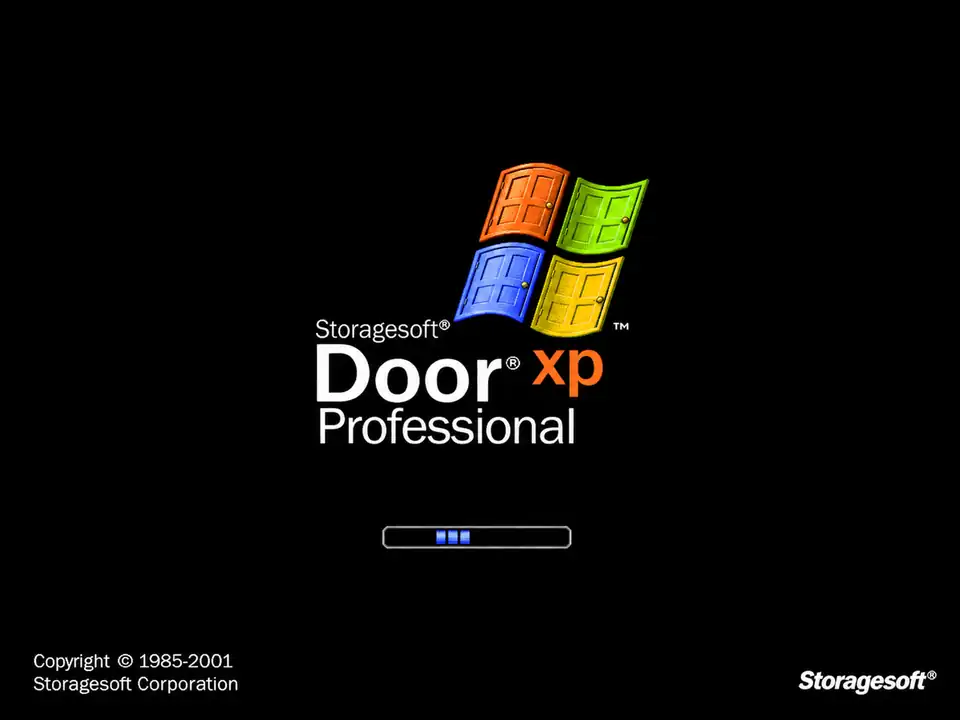
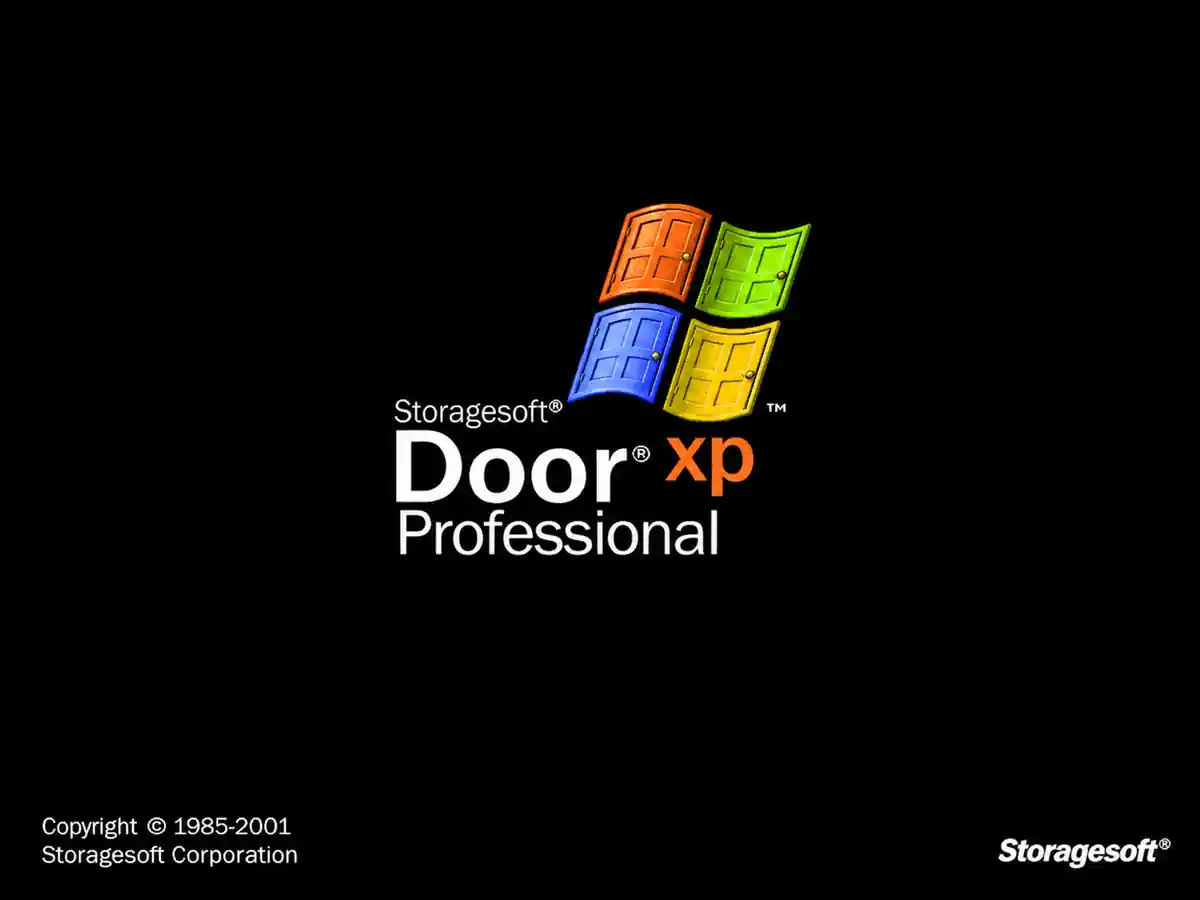
Update Door XP boot artwork and expand floating random tablet ads (v0.4.9)

diff --git a/tablet-os.js b/tablet-os.js
@@ -12,12 +12,34 @@
     shutdown:'Завершение работы...',biosTitle:'NET SYSTEM BIOS v3.0',biosText:'Проверка памяти... OK\nОбнаружение устройств... OK\nЗагрузка Door XP...',
     welcome:'Добро пожаловать',booting:'Загрузка системы…',startVideo:'Запуск Net Video 3.0…',
     ads:[
-      ['ПОЗДРАВЛЯЕМ!','Ваш компьютер выбран для бесплатного обновления охранной системы. Установить сейчас?'],
-      ['СРОЧНАЯ РЕКЛАМА','Подписка «Анти-Петух PRO» обещает защиту от внезапных криков. Активировать?'],
-      ['ИНТЕРНЕТ-ПРОВАЙДЕР','Ускорьте все девять камер в 100 раз! Применить экспериментальную оптимизацию?'],
-      ['ПРОВЕРКА СИСТЕМЫ','Найдено 47 подозрительных перьев. Запустить автоматическую очистку?'],
-      ['СПЕЦИАЛЬНОЕ ПРЕДЛОЖЕНИЕ','Зерно премиум-класса теперь доступно онлайн. Получить подарок?'],
-      ['ОБНОВЛЕНИЕ СЛУЖБЫ','Установлена устаревшая версия Net Video. Перейти на новую прямо сейчас?']
+      ["ВЫ ВЫИГРАЛИ!","Вы стали 47-м посетителем сайта! Получить бесплатный кулер для охранника?"],
+      ["АНТИ-ПЕТУХ PRO","Новая защита от внезапных криков и перьев. Активировать пробную версию?"],
+      ["СВЕРХСКОРОСТЬ","Ускорьте все девять камер в сто раз! Разрешить экспериментальную оптимизацию?"],
+      ["ПРОВЕРКА СИСТЕМЫ","Обнаружено 47 подозрительных перьев. Удалить их автоматически?"],
+      ["ПОДАРОК ДНЯ","Вам положен мешок элитного зерна. Подтвердить получение?"],
+      ["ВАЖНОЕ ОБНОВЛЕНИЕ","Ваша версия Net Video устарела на 29 лет. Установить обновление?"],
+      ["НОЧНОЙ БОНУС","Хотите получать двойную зарплату, не выходя из кресла? Подписаться?"],
+      ["ОЧИСТКА ПАМЯТИ","Видеопамять переполнена кадрами куриц. Начать мгновенную очистку?"],
+      ["АКЦИЯ: КОФЕ","Один бесплатный кофе за каждые шесть часов наблюдения. Забрать сейчас?"],
+      ["СРОЧНОЕ СООБЩЕНИЕ","На вашем компьютере обнаружено критическое отсутствие печенья. Исправить?"],
+      ["НАЙДЕН ВИРУС","Угроза Chicken.exe просит доступ к вашим камерам. Разрешить?"],
+      ["ПОГОДА В ОФИСЕ","С вероятностью 99% сегодня ожидается дождь из перьев. Включить прогноз?"],
+      ["NET SYSTEM PLUS","Дополнительная камера для наблюдения за самим охранником. Подключить?"],
+      ["БЕЗОПАСНАЯ НОЧЬ","Автоматический помощник обещает закрывать двери за вас. Установить?"],
+      ["СЧАСТЛИВЫЙ НОМЕР","Ваш монитор выбран для участия в лотерее «Золотой гребень». Принять участие?"],
+      ["СИСТЕМНЫЙ СОВЕТ","Рекомендуем отключить лишние фонарики для экономии энергии. Применить?"],
+      ["ОФИСНЫЕ НОВОСТИ","Всем сотрудникам разрешено смотреть камеры с закрытыми глазами. Подробнее?"],
+      ["РАСШИРЕНИЕ БРАУЗЕРА","Переводчик языка петухов доступен бесплатно. Установить расширение?"],
+      ["ПРЕМИУМ-ПОДПИСКА","Уберите рекламу навсегда всего за 250 долларов в неделю. Оформить?"],
+      ["ЦИФРОВАЯ УБОРКА","В папке «Корзина» найдены 128 виртуальных скорлупок. Очистить?"],
+      ["СЕКРЕТНОЕ ПРЕДЛОЖЕНИЕ","Защитите офис при помощи инновационной шапочки из фольги. Заказать?"],
+      ["ЗАПРОС ДОСТУПА","Приложение Rooster Assistant хочет управлять вашим USB-хабом. Разрешить?"],
+      ["ОБНАРУЖЕН ПРИНТЕР","Ваш принтер печатает загадочные следы лап. Запустить диагностику?"],
+      ["НЕТ СОЕДИНЕНИЯ?","Наш мастер восстановит интернет за три хлопка крыльями. Вызвать мастера?"],
+      ["ПОДТВЕРДИТЕ ВОЗРАСТ","Для просмотра опасных куриных мемов подтвердите, что вам уже 18 лет."],
+      ["ОФИСНЫЙ РАДАР","Выявлено необычное движение в коридоре. Запустить платный анализ?"],
+      ["ПЕРСОНАЛЬНАЯ СКИДКА","Только сегодня: 90% на годовой запас батареек. Получить купон?"],
+      ["РОЗЫГРЫШ СРЕДИ ОХРАННИКОВ","Приз — выходной после седьмой смены. Подать заявку?"]
     ]
   };
   const ja={
@@ -26,12 +48,34 @@
     shutdown:'シャットダウンしています…',biosTitle:'NET SYSTEM BIOS v3.0',biosText:'メモリのチェック... OK\nデバイスの確認... OK\nDoor XP を起動中...',
     welcome:'ようこそ',booting:'システムを起動中…',startVideo:'Net Video 3.0 を起動中…',
     ads:[
-      ['おめでとうございます！','セキュリティシステムの無料アップグレードに当選しました。インストールしますか？'],
-      ['特別なお知らせ','突然のニワトリの叫び声から守る「Anti-Rooster PRO」を有効にしますか？'],
-      ['インターネット接続','9台の監視カメラを100倍高速化！実験的な最適化を適用しますか？'],
-      ['システム警告','47枚の不審な羽を発見しました。自動クリーニングしますか？'],
-      ['今だけ限定','プレミアム飼料の特典を受け取りますか？'],
-      ['更新の確認','Net Video は旧バージョンです。今すぐアップデートしますか？']
+      ["当選のお知らせ","あなたは本日47番目の訪問者です！警備員用の冷水機を無料で受け取りますか？"],
+      ["ANTI-ROOSTER PRO","突然の鳴き声や羽から守る最新サービス。お試し版を有効にしますか？"],
+      ["超高速モード","9台の監視カメラを100倍高速化！実験的な最適化を許可しますか？"],
+      ["システム検査","不審な羽を47枚検出しました。自動的に削除しますか？"],
+      ["本日のプレゼント","高級飼料を一袋プレゼント！今すぐ受け取りますか？"],
+      ["重要な更新","Net Videoは29年間更新されていません。今すぐ更新しますか？"],
+      ["夜勤ボーナス","椅子に座ったまま給料が2倍になるサービスに登録しますか？"],
+      ["メモリの最適化","監視映像のニワトリでメモリがいっぱいです。今すぐ整理しますか？"],
+      ["コーヒー特典","監視6時間につきコーヒー1杯無料！今すぐ受け取りますか？"],
+      ["緊急通知","コンピューターにクッキーが足りません。問題を修復しますか？"],
+      ["ウイルスを検出","Chicken.exeがカメラへのアクセスを要求しています。許可しますか？"],
+      ["オフィスの天気","今夜は99％の確率で羽が降る見込みです。予報を表示しますか？"],
+      ["NET SYSTEM PLUS","警備員自身を監視する追加カメラを接続しますか？"],
+      ["安全な夜","AIが自動的にドアを閉めます。今すぐインストールしますか？"],
+      ["ラッキーナンバー","「黄金のトサカ」抽選会への参加権を獲得しました。応募しますか？"],
+      ["システムのおすすめ","節電のために余分なライトを消しますか？"],
+      ["オフィスニュース","全社員が目を閉じたままカメラを見られるようになりました。詳細を見る？"],
+      ["ブラウザー拡張機能","ニワトリ語の翻訳ツールが無料で使えます。インストールしますか？"],
+      ["プレミアム会員","広告を永久に非表示！週250ドルで申し込みますか？"],
+      ["デジタル清掃","ごみ箱から仮想の卵殻を128個検出しました。削除しますか？"],
+      ["極秘セール","アルミホイル製の帽子でオフィスを守りましょう。注文しますか？"],
+      ["アクセス許可","Rooster AssistantがUSBハブの操作を要求しています。許可しますか？"],
+      ["プリンターを検出","プリンターが謎の足跡を印刷しています。診断しますか？"],
+      ["接続できませんか？","羽ばたき3回でインターネットを修復！技術者を呼びますか？"],
+      ["年齢確認","危険なニワトリのミームを見るには18歳以上であることを確認してください。"],
+      ["オフィスレーダー","廊下で不審な動きを検知しました。有料解析を開始しますか？"],
+      ["あなただけの割引","本日限定！一年分の電池が90％オフ。クーポンを受け取りますか？"],
+      ["警備員限定の抽選","景品は7日目の勤務後の休日です。応募しますか？"]
     ]
   };
   const safeRead=key=>{try{return localStorage.getItem(key)}catch(_){return null}};
@@ -45,7 +89,7 @@
     const factor=Math.max(.7,1-Math.max(0,game.currentNight-4)*.085);
     return random(10,18)*factor+extra;
   }
-  const media=name=>`assets/ui/tablet/${name}.webp`;
+  const media=name=>`assets/ui/tablet/${name}.webp${name==='boot'?'?v=049':''}`;
   const html=(tag,cls,where)=>{const e=document.createElement(tag);e.className=cls;where.appendChild(e);return e;};
   const os=html('div','tablet-os-layer hidden',tablet);
   os.setAttribute('aria-live','polite');
@@ -57,6 +101,29 @@
   ad.setAttribute('role','dialog');ad.setAttribute('aria-modal','true');
   ad.innerHTML=`<div class="tablet-popup-dialog"><div class="tablet-popup-head"><span>●</span><strong></strong><span class="tablet-popup-close" aria-hidden="true">×</span></div><div class="tablet-popup-message"><span class="tablet-popup-symbol">i</span><div><h3></h3><p></p></div></div><div class="tablet-popup-buttons"></div></div>`;
   const popupHeading=ad.querySelector('.tablet-popup-head strong'), popupTitle=ad.querySelector('h3'), popupText=ad.querySelector('p'), buttons=ad.querySelector('.tablet-popup-buttons');
+  const popupDialog=ad.querySelector('.tablet-popup-dialog');
+  let lastAdIndex=-1;
+  let adMoving=false;
+  function placeAdWindow(){
+    if(!state.adVisible || !game.cameraOpen || ad.classList.contains('hidden'))return;
+    const containerWidth=ad.clientWidth,containerHeight=ad.clientHeight;
+    if(!containerWidth||!containerHeight)return;
+    const popupWidth=popupDialog.offsetWidth,popupHeight=popupDialog.offsetHeight;
+    const wiggle=adMoving?Math.min(16,containerWidth*.015,containerHeight*.03):0;
+    const margin=8+wiggle;
+    const xLow=popupWidth/2+margin,xHigh=containerWidth-popupWidth/2-margin;
+    const yLow=popupHeight/2+margin,yHigh=containerHeight-popupHeight/2-margin;
+    if(xHigh<=xLow || yHigh<=yLow)adMoving=false;
+    const x=xHigh>xLow?random(xLow,xHigh):containerWidth/2;
+    const y=yHigh>yLow?random(yLow,yHigh):containerHeight/2;
+    popupDialog.style.setProperty('--ad-x',x+'px');
+    popupDialog.style.setProperty('--ad-y',y+'px');
+    popupDialog.style.setProperty('--ad-wiggle',wiggle+'px');
+    popupDialog.style.setProperty('--ad-float-time',random(5,10).toFixed(2)+'s');
+    popupDialog.classList.toggle('is-floating',adMoving);
+  }
+  window.addEventListener('resize',()=>{if(state.adVisible)requestAnimationFrame(placeAdWindow)});
+  if(window.ResizeObserver)new ResizeObserver(()=>{if(state.adVisible)requestAnimationFrame(placeAdWindow)}).observe(tablet);
   const usb=html('div','tablet-usb-failure hidden',feed);
   usb.innerHTML=`<div class="tablet-usb-inner"><div class="tablet-usb-icon">▣</div><strong></strong><p></p></div>`;
   const usbHeading=usb.querySelector('strong'),usbBody=usb.querySelector('p');
@@ -90,7 +157,7 @@
   }
   function reset(){
     state.mode='idle';state.adVisible=false;state.adCountdown=nextAdDelay();state.stageIndex=-1;state.stageRemaining=0;state.usbRemaining=0;
-    previousElapsed=null;ad.classList.add('hidden');os.classList.add('hidden');usb.classList.add('hidden');stopSound();pausedAudio=false;
+    previousElapsed=null;ad.classList.add('hidden');popupDialog.classList.remove('is-floating','is-paused');adMoving=false;os.classList.add('hidden');usb.classList.add('hidden');stopSound();pausedAudio=false;
   }
   function displayStage(stage){
     os.dataset.phase=stage.id;
@@ -127,14 +194,21 @@
   }
   function dismiss(accepted){
     if(!state.adVisible)return;
-    state.adVisible=false;ad.classList.add('hidden');
+    state.adVisible=false;ad.classList.add('hidden');popupDialog.classList.remove('is-floating','is-paused');
     if(accepted){state.accepted++;if(Math.random()<.5)reboot();else disconnectUSB();}
     else {state.declined++;state.adCountdown=nextAdDelay();}
   }
   function showAd(){
     if(!game.state.active||game.currentNight<4||state.mode!=='idle'||state.adVisible)return false;
     state.adVisible=true;state.shown++;
-    const [h,txt]=choose(tr().ads);popupHeading.textContent=tr().windowTitle;popupTitle.textContent=h;popupText.textContent=txt;
+    const adTexts=tr().ads;
+    let index=Math.floor(Math.random()*adTexts.length);
+    if(adTexts.length>1 && index===lastAdIndex)index=(index+1+Math.floor(Math.random()*(adTexts.length-1)))%adTexts.length;
+    lastAdIndex=index;
+    const [h,txt]=adTexts[index];
+    popupHeading.textContent=tr().windowTitle;popupTitle.textContent=h;popupText.textContent=txt;
+    adMoving=Math.random()<.5;
+    popupDialog.classList.remove('is-floating','is-paused');
     buttons.replaceChildren();
     const order=Math.random()<.5?['accept','cancel']:['cancel','accept'];
     order.forEach(kind=>{
@@ -143,6 +217,7 @@
     });
     audioSound('os_info');
     ad.classList.toggle('hidden',!game.cameraOpen);
+    if(game.cameraOpen)requestAnimationFrame(placeAdWindow);
     return true;
   }
   function ui(){
@@ -164,6 +239,7 @@
     previousElapsed=gs.nightElapsed;
     const frozen=gs.paused||game.phoneState?.status==='talking';
     freezeSound(frozen);
+    popupDialog.classList.toggle('is-paused',frozen);
     if(!frozen&&dt>0){
       if(state.mode==='reboot'){
         state.stageRemaining-=dt;

diff --git a/tablet-os.css b/tablet-os.css
@@ -52,3 +52,27 @@
 /* v0.4.8: Door XP boot is a static image, with no slider or added text. */
 /* Do not place any extra status captions over the boot logo. */
 .tablet-os-layer[data-phase='boot'] .tablet-os-center{display:none}
+
+/* v0.4.9: random bounded window positions and optional slow floating movement. */
+.tablet-popup{display:block;overflow:hidden}
+.tablet-popup-dialog{
+  position:absolute;
+  left:var(--ad-x,50%);
+  top:var(--ad-y,50%);
+  transform:translate(-50%,-50%);
+  max-width:calc(100% - 16px);
+  max-height:calc(100% - 16px);
+  overflow:auto;
+  box-sizing:border-box;
+}
+.tablet-popup-dialog.is-floating{
+  animation:fnarAdFloat var(--ad-float-time,7s) ease-in-out infinite alternate;
+}
+.tablet-popup-dialog.is-paused{animation-play-state:paused}
+@keyframes fnarAdFloat {
+  from{transform:translate(calc(-50% - var(--ad-wiggle,8px)),calc(-50% + var(--ad-wiggle,8px)))}
+  to{transform:translate(calc(-50% + var(--ad-wiggle,8px)),calc(-50% - var(--ad-wiggle,8px)))}
+}
+@media(prefers-reduced-motion:reduce){
+ .tablet-popup-dialog.is-floating{animation:none}
+}

diff --git a/app.js b/app.js
@@ -10,7 +10,7 @@ const names = [
 ];
 const src = f => window.KONS_EMBEDDED_ASSETS?.[f] || getCachedAssetURL('assets/room/'+f);
 // Preload before the first night so all effects and camera frames are local when played.
-const PRELOAD_CACHE_NAME='fnar-game-assets-v045';
+const PRELOAD_CACHE_NAME='fnar-game-assets-v049';
 const cachedAssetURLs=new Map();
 function getCachedAssetURL(path){return cachedAssetURLs.get(path)||path;}
 const PRELOAD_SOUND_NAMES=["ambience","ambient_room","beep","blip","chimes","door","hang-up","knock-2","knock-3","knock","light","open-camera","os_balloon","os_info","os_shutdown","os_startup","os_usb_connect","os_usb_remove","phone-line","phone","phone_01","phone_02","phone_03","phone_04","phone_05","power-outage","running-fast","running","scream","static-bm"];
